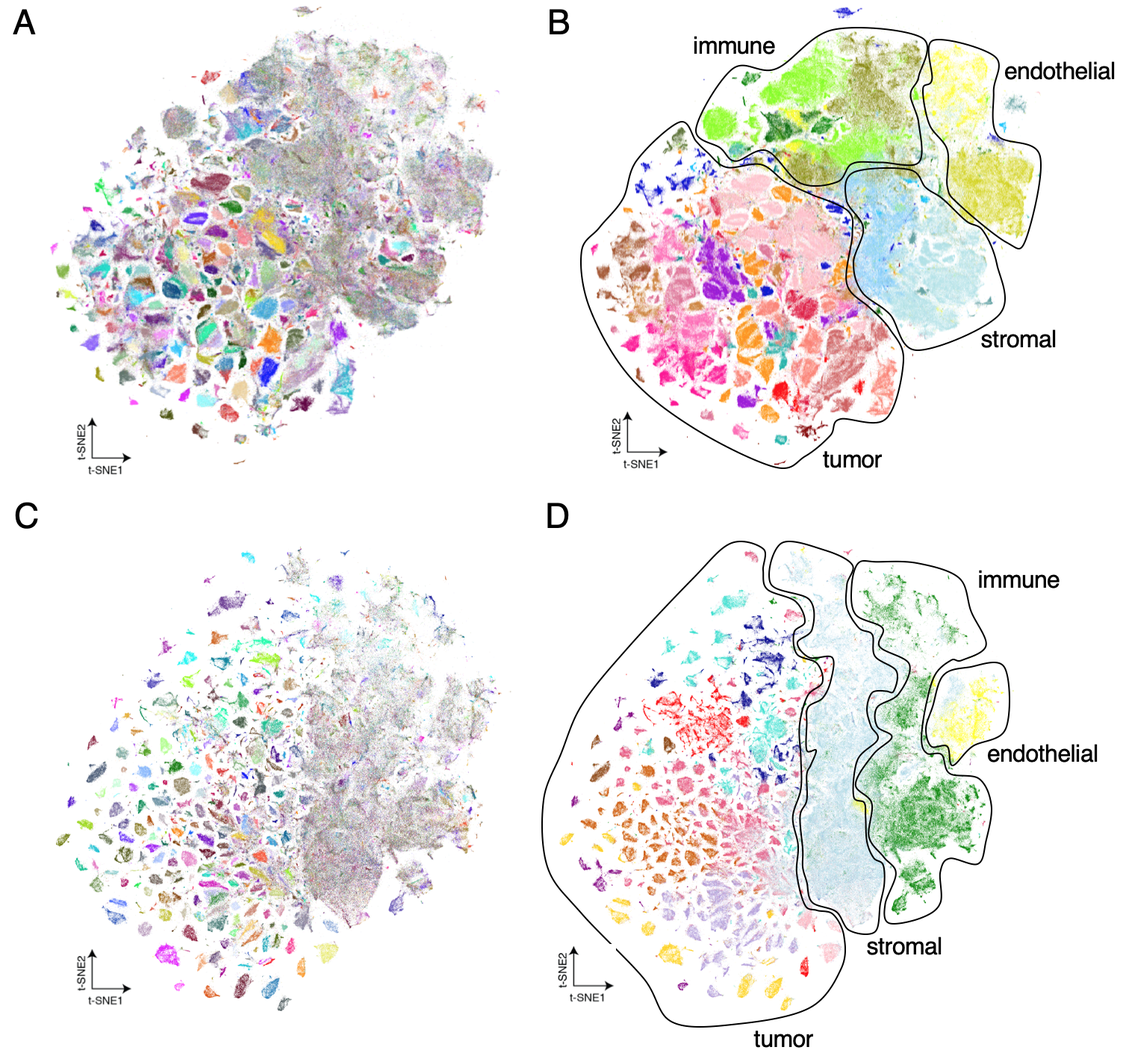
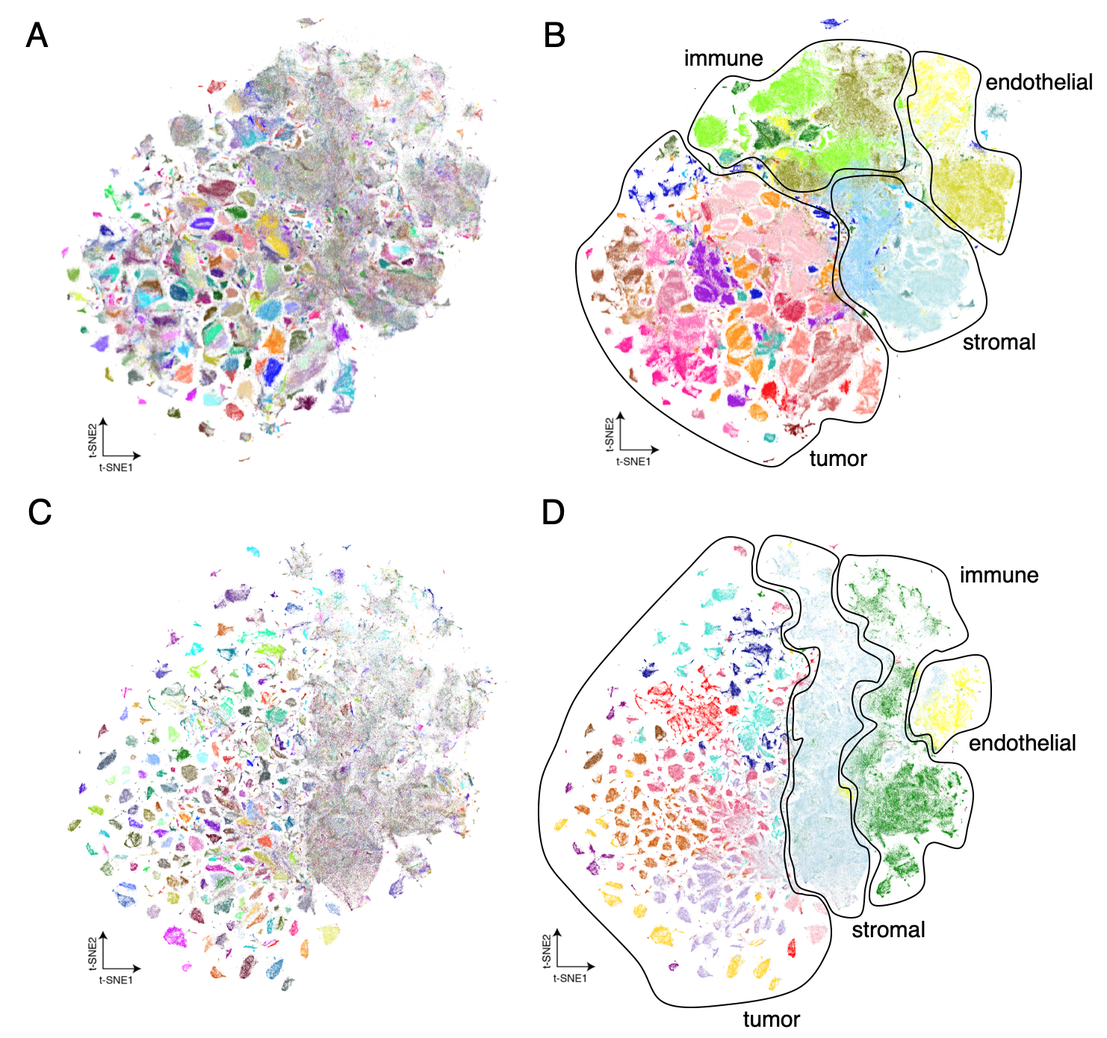
second revision

diff --git a/elsarticle-template-1-num.tex b/elsarticle-template-1-num.tex
@@ -150,25 +150,23 @@ GPU data science \sep breast cancer
 %% main text
 \section{MAIN}
 \label{S:1}
-Multiplex tissue imaging (MTI) methods like cyclic  immunofluorescence (CyCIF) \cite{cycif2018, cmif2020}, CODEX \cite{codex2018}, multiplex immunohistochemistry (mIHC) \cite{mIHC2017}, imaging mass cytometry (IMC) \cite{imc2014}, and multiplex ion beam imaging \cite{mibi2014} enable measurements of the expression and spatial distribution of tens of markers in tissues, and have facilitated our understanding of the interactions and relationships among distinct cell types in diverse tissue microenvironments. Nevertheless, for MTI to reach its full potential as a research paradigm, numerous computational challenges must be overcome, including 1) reproducible normalization of single-cell intensity measurements to enable comparison of measurements within and between samples; 2) robust cell phenotyping at megascale to enable comparison--and soon compilation--of MTI datasets from different platforms; and 3) the development of insightful spatial features to characterize the microenvironment of the tissue or disease of interest, and so enable discrimination between tissues that vary over important clinical parameters.\\
+Multiplex tissue imaging (MTI) methods like cyclic  immunofluorescence (CyCIF) \cite{cycif2018, cmif2020}, CODEX \cite{codex2018}, multiplex immunohistochemistry (mIHC) \cite{mIHC2017}, imaging mass cytometry (IMC) \cite{imc2014}, and multiplex ion beam imaging \cite{mibi2014} enable measurements of the expression and spatial distribution of tens of markers in tissues, and have facilitated our understanding of the interactions and relationships among distinct cell types in diverse tissue microenvironments. Nevertheless, for MTI to reach its full potential as a research paradigm, numerous computational challenges must be overcome, including 1) reproducible normalization of single-cell intensity measurements to enable intra- and inter-sample comparisons; 2) robust cell phenotyping at megascale to enable comparison--and soon compilation--of MTI datasets from different platforms; and 3) the development of insightful spatial features to characterize the microenvironment of the tissue or disease of interest, and so enable discrimination between tissues that vary over important clinical parameters.\\
 
-To address these challenges, we present (1) a broadened application of our data-intrinsic normalization method \cite{Chang2020}, which leverages the mutually exclusive expression pattern of marker pairs in MTI stain panels to estimate normalization factors without subjective and time-consuming manual gating; (2) a distributed and graphics processing unit (GPU)-accelerated implementation of PhenoGraph \cite{Levine2015}, the popular, graph-based algorithm for subpopulation detection in high-dimensional single-cell data; and (3) an integrative analysis using this toolkit on $\sim$1.3 million cells from a 180-sample, pan-subtype human breast cancer (BC) tissue microarray (TMA) dataset (\autoref{fig:suppfig1}A-C) stained by CyCIF using a marker panel that characterizes tumor, immune, and stromal compartments (\autoref{fig:fig1}A, \autoref{fig:suppfig1}D). Through consideration of both tissue composition and architecture, we identify features independent from hormone receptor (HR) and human epidermal growth factor receptor 2 (HER2) expression which discriminate between the canonical BC subtypes.\\
+To address these challenges, we present (1) a broadened application of our data-intrinsic normalization method \cite{Chang2020}, which leverages the mutually exclusive expression pattern of marker pairs in MTI stain panels to estimate normalization factors without subjective and time-consuming manual gating; (2) a distributed and graphics processing unit (GPU)-accelerated implementation of PhenoGraph \cite{Levine2015}, the popular graph-based algorithm for subpopulation detection in high-dimensional single-cell data; and (3) an integrative analysis using this toolkit on $\sim$1.3 million cells from a 180-sample, pan-subtype human breast cancer (BC) tissue microarray (TMA) dataset (\autoref{fig:suppfig1}A-C) stained by CyCIF using a marker panel that characterizes tumor, immune, and stromal compartments (\autoref{fig:fig1}A, \autoref{fig:suppfig1}D). Through consideration of both tissue composition and architecture, we identify features independent from hormone receptor (HR) and human epidermal growth factor receptor 2 (HER2) expression which discriminate between the canonical BC subtypes.\\
 
-For RESTORE normalization \cite{Chang2020} of each TMA core, we leverage the fact that tumor, immune, and stromal cells exhibit mutually exclusive expression of cell type-specific markers, and use a graph-based clustering to define positive and negative cells and normalization factors (\autoref{fig:suppfig2}A, \autoref{tab:mepairs}, see METHODS). When the raw expression vectors of all cells across TMAs are embedded by $t$-stochastic neighbor embedding ($t$-SNE) \cite{tsne2008}, cells are segregated based on TMA source (\autoref{fig:suppfig2}B, left), mainly due to batch effect and in part due to subtype bias within TMAs (\autoref{fig:suppfig1}B). Following normalization, shared cell types between TMAs are co-embedded (\autoref{fig:suppfig2}B, right) and immune, tumor, and stromal cells are segregated (\autoref{fig:suppfig2}C), a validation of the normalization process.\\
+For RESTORE normalization \cite{Chang2020} of each TMA core, we leverage the fact that tumor, immune, and stromal cells exhibit mutually exclusive expression of cell type-specific markers, and use a graph-based clustering to define positive and negative cells and normalization factors (\autoref{fig:suppfig2}A, \autoref{tab:mepairs}, see METHODS). When the raw expression vectors of all cells across TMAs are embedded by $t$-stochastic neighbor embedding ($t$-SNE) \cite{tsne2008}, cells are segregated based on TMA source (\autoref{fig:suppfig2}B, left), mainly due to batch effect and in part due to subtype bias within TMAs (\autoref{fig:suppfig2}B). Following normalization, shared cell types between TMAs are co-embedded (\autoref{fig:suppfig2}B, right) and immune, tumor, and stromal cells are segregated (\autoref{fig:suppfig2}C), a validation of the normalization process.\\
 
-To define cell types among the $\sim$1.3 million cells in the normalized feature table, we first attempted to use the central processing unit (CPU)-based version of the widely-used algorithm PhenoGraph \cite{Levine2015}, but found it to be inefficient at this scale. To overcome this computational bottleneck, we re-implemented PhenoGraph to be executable on GPUs. Using the Python libraries RAPIDS \cite{cuml2020} and CuPy \cite{cupy2017} to parallelize and accelerate several of PhenoGraph's computations (see METHODS), we observed multiple orders of magnitude improvement in the algorithm's speed without sacrificing clustering quality (\autoref{fig:fig}A, box (2)). Our PhenoGraph implementation identified diverse tumor, immune, and stromal cell types across tissues and BC subtypes (\autoref{fig:fig1}B-C). To define phenotypes shared across tissues, metaclusters of similar phenotypes were aggregated based on the hierarchical clustering of phenotypes based on their mean marker expression. While tissues from all BC subtypes contained similar populations of immune, stromal, and endothelial cells, differences between BC subtypes were largely driven by variable tumor cells expression of luminal and basal cytokeratins, HER2, and the hormone receptors ER and PgR \cite{jackson_single-cell_2020}. We further assessed the robustness of our detected cell phenotypes by either subsampling tissue cores (\autoref{fig:suppfig3}A-C), or by applying $\pm20\%$ noise to normalization factors for each marker for each core (\autoref{fig:suppfig3}D) and found that phenotypes are detected as they are sampled and are robust to minor variation in normalization factors.\\
+To define cell types among the $\sim$1.3 million cells in the normalized feature table, we first attempted to use the central processing unit (CPU)-based version of the widely-used algorithm PhenoGraph \cite{Levine2015}, but found it to be inefficient at this scale. To overcome this computational bottleneck, we re-implemented PhenoGraph to be executable on GPUs. Using the Python libraries RAPIDS \cite{cuml2020} and CuPy \cite{cupy2017} to parallelize and accelerate several of PhenoGraph's computations (see METHODS), we observed multiple orders of magnitude improvement in the algorithm's speed without sacrificing clustering quality (\autoref{fig:fig1}A, box (2)). Our PhenoGraph implementation identified diverse tumor, immune, and stromal cell types across tissues and BC subtypes (\autoref{fig:fig1}B-C). To define phenotypes shared across tissues, metaclusters of similar phenotypes were aggregated based on the hierarchical clustering of phenotypes based on their mean marker expression. While tissues from all BC subtypes contained similar populations of immune, stromal, and endothelial cells, differences between BC subtypes were largely driven by variable tumor cells expression of luminal and basal cytokeratins, HER2, and the hormone receptors ER and PgR \cite{jackson_single-cell_2020}. We further assessed the robustness of our identified cell phenotypes by either subsampling tissue cores (\autoref{fig:suppfig3}A-C), or by applying $\pm20\%$ noise to normalization factors for each marker for each core (\autoref{fig:suppfig3}D) and found that phenotypes are identified as they are sampled and are robust to minor variation in normalization factors.\\
 
-With the growth of MTI in the cancer research and translational communities, there is an acute need for robust and integrative analyses of MTI data across platforms and cohorts \cite{htan2020}. In a step toward addressing that need, we validated our identified cell types through comparison with a recently published survey of BC by IMC \cite{jackson_single-cell_2020}. While the total number of cells from each BC subtype varied between the Basel (IMC) and OHSU (CyCIF) cohorts (\autoref{fig:suppfig4}A), there was substantial overlap between the marker panels used for each MTI platform (\autoref{fig:suppfig4}B). By aligning the cell phenotypes independently detected by PhenoGraph in each cohort (\autoref{fig:suppfig4}C), we found highly-correlated clusters for stromal, immune, basal, and proliferating cell types, among others (\autoref{fig:suppfig4}D), suggesting that shared cell types could be matched across cohorts and MTI platforms, a necessary step for data integration. We note that differences between cohort cell types may reflect the differences between cohort composition with respect to BC subtype. Consistent between cohorts and platforms, tumor cells differed more between samples than did immune, stromal, and endothelial cells \autoref{fig:suppfig5}. \\
+With the growth of MTI in the cancer research and translational communities, there is an acute need for robust and integrative analyses of MTI data across platforms and cohorts \cite{htan2020}. In a step toward addressing that need, we validated our identified cell types through comparison with a recently published survey of BC by IMC \cite{jackson_single-cell_2020}. While the total number of cells from each BC subtype varied between the Basel (IMC) and OHSU (CyCIF) cohorts (\autoref{fig:suppfig4}A), there was substantial overlap between the marker panels used for each MTI platform (\autoref{fig:suppfig4}B). By aligning the cell phenotypes independently detected by PhenoGraph in each cohort (\autoref{fig:suppfig4}C), we found highly-correlated clusters for stromal, immune, basal, and proliferating cell types, among others (\autoref{fig:suppfig4}D), suggesting that shared cell types could be matched across cohorts and MTI platforms, a necessary step for data integration. We note that differences between cohort cell types may reflect the differences between cohort composition with respect to BC subtype. Consistent between cohorts and platforms, tumor cells differed more between samples than did immune, stromal, and endothelial cells (\autoref{fig:suppfig5}). \\
 
-Although BC is appreciated as a genetically and morphologically heterogeneous disease, its clinical subtyping is based on the expression of relatively few markers—in particular, tumor cell expression of the hormone receptors for estrogen and progesterone (ER and PgR, respectively, or HR, collectively), and human epidermal growth factor 2 (HER2)—which is insufficient to explain differences in treatment response within each subtype \cite{bcreview2015}. Recent studies using MTI to interrogate intact BC tissues have found that the spatial contexture of the BC microenvironment can augment our ability to predict clinical outcome \cite{keren2018, jackson_single-cell_2020}. However, because these studies have either ignored features which differentiate between receptor expression-based BC subtypes beyond the expression of the receptors themselves, or focused on a single BC subtype, here we focused on compositional and spatial features which differentiate between BC subtypes. \\
+Although BC is appreciated as a genetically and morphologically heterogeneous disease, its clinical subtyping is based on the expression of relatively few markers—in particular, tumor cell expression of the hormone receptors for estrogen and progesterone (ER and PgR, respectively, or HR, collectively), and human epidermal growth factor 2 (HER2)—which is insufficient to explain differences in treatment response within each subtype \cite{bcreview2015}. Recent studies using MTI to interrogate intact BC tissues have found that the spatial contexture of the BC microenvironment can augment our ability to predict clinical outcome \cite{jackson_single-cell_2020,keren2018}. However, because these studies have either ignored features which differentiate between receptor expression-based BC subtypes beyond the expression of the receptors themselves, or focused on a single BC subtype, here we focused on compositional and spatial features which differentiate between BC subtypes. \\
 
 At the composition level, we first considered the tumor cell differentiation states of BC subtypes through their expression of luminal and basal cytokeratins (CKs). While CK+ cells in HR-/HER2+, HR+/HER2-, and HR+/HER2+ tissues primarily expressed luminal CKs 19, 8, and 7, CK+ cells in TN tissues exhibited significantly greater differentiation state heterogeneity (\autoref{fig:fig2}A), as they expressed many different combinations of luminal and basal cytokeratins (\autoref{fig:fig2}B). This differentiation state heterogeneity is consistent with the genetic and histological heterogeneity of triple negative BC (TNBC) described in other studies \cite{haupt2010, tnbc2016}. We next determined the composition of each tissue core with respect to the cell metaclusters we defined above. Hierarchical clustering of cores based on their cell metacluster densities highlighted the broad variability of cellular composition within and between BC subtypes (\autoref{fig:fig2}C-D). When the cell metaclusters were further aggregated into immune, stromal, and tumor cell types (see METHODS), we found the HR+HER2- tissues to have lower overall immune cell density than the other BC subtypes, and no differences in stromal or tumor cell density between subtypes (\autoref{fig:fig2}E). \\
 
-Recognizing that cell density measurements fail to capture the organization of cells in each tissue, we next characterized the spatial architectures of BC subtypes by building cell neighborhood graphs for each tissue. Given the recent evidence that the quantity and diversity of BC tumor cell interactions with other cell types can inform disease outcome \cite{keren2018,jackson_single-cell_2020}, we first identified the neighboring cells to each tumor cell and compared the composition of tumor cell neighborhoods across BC subtypes (\autoref{fig:fig3}A). Though most tumor cell interactions ($\sim$70-80\%) are with other tumor cells typical to their BC subtype, we observed increased tumor-stromal interaction in the HR+HER2- subtype. When considering tissues that contain an appreciable population of stromal cells (\autoref{fig:fig3}B), we confirmed that there was significantly more stromal mixing with tumor cells in HR+HER2- tissues (\autoref{fig:fig3}C). Importantly, stromal mixing can vary widely between tissues in spite of their similar stromal density (\autoref{fig:fig3}D), highlighting the importance of the spatial context that is preserved in intact tissues. Since malignant epithelial cells can suppress fibroblast maturation and thus promote fibroblast aromatase activity \cite{bulun2012}, ER+HER2- tumors likely favor more from proximal fibroblasts as a source of growth-inducing estrogen than other BC subtypes, and may even act to maintain tumor microenvironments with high stromal mixing \cite{brechbuhl2017}. \\
+Recognizing that cell density measurements fail to capture the organization of cells in each tissue, we next characterized the spatial architectures of BC subtypes by building cell neighborhood graphs for each tissue. Given the recent evidence that the quantity and diversity of BC tumor cell interactions with other cell types can inform disease outcome \cite{jackson_single-cell_2020,keren2018}, we first identified the neighboring cells to each tumor cell and compared the composition of tumor cell neighborhoods across BC subtypes (\autoref{fig:fig3}A). Though most tumor cell interactions ($\sim$70-80\%) are with other tumor cells typical to their BC subtype, we observed increased tumor-stromal interaction in the HR+HER2- subtype. When considering tissues that contain an appreciable population of stromal cells (tissues comprised of at least 25\% stromal cells), we confirmed that there was significantly more stromal mixing with tumor cells in HR+HER2- tissues (\autoref{fig:fig3}B). Importantly, stromal mixing can vary widely between tissues in spite of their similar stromal density (\autoref{fig:fig3}C), highlighting the importance of the spatial context that is preserved in intact tissues. Since malignant epithelial cells can suppress fibroblast maturation and thus promote fibroblast aromatase activity \cite{bulun2012}, ER+HER2- tumors likely favor more from proximal fibroblasts as a source of growth-inducing estrogen than other BC subtypes, and may even act to maintain tumor microenvironments with high stromal mixing \cite{brechbuhl2017}. \\
 
-We reasoned that differences in tumor-stromal interaction might translate into detectable differences between BC subtypes based on their tumor architectures alone. To characterize the tumor architecture of each tissue, we constructed tumor architecture graphs over which we computed the closeness centrality for each tumor cell, which quantifies the relative closeness of that tumor cell to all other tumor cells in the tissue (\autoref{fig:fig3}E). Consistent with the stromal mixing trend observed above, tumor cells in HR+HER2- tissues tended to have increased closeness centrality compared to tumor cells from the other BC subtypes (\autoref{fig:fig3}F), which is in part a reflection of HR+HER2- tumor cell nests tending to be separated by narrower streams of stromal cells than tumor nests in tissues from other BC subtypes (\autoref{fig:fig3}D). In summary, by analyzing BC tissues with spatially resolved MTI, we have identified inter- and intra-cell phenotype interactions which can be leveraged to help discriminate between canonical BC subtypes on a basis other than receptor expression. \\
-
-Finally, we recognize that our understanding of big imaging data benefits from its visualization, so we developed a simple Jupyter wrapper for napari \cite{napari_0_3_0}—the fast, interactive multi-dimensional image viewer for Python—which makes exploration, analysis, and interpretation of multiplex imaging data more tractable. \\
+We reasoned that differences in tumor-stromal interaction might translate into detectable differences between BC subtypes based on their tumor architectures alone. To characterize the tumor architecture of each tissue, we constructed tumor architecture graphs over which we computed the closeness centrality for each tumor cell, which quantifies the relative closeness of that tumor cell to all other tumor cells in the tissue (\autoref{fig:fig3}D). Consistent with the stromal mixing trend observed above, tumor cells in HR+HER2- tissues tended to have increased closeness centrality compared to tumor cells from the other BC subtypes (\autoref{fig:fig3}E), which is in part a reflection of HR+HER2- tumor cell nests tending to be separated by narrower streams of stromal cells than tumor nests in tissues from other BC subtypes (\autoref{fig:fig3}C). In summary, by analyzing BC tissues with spatially resolved MTI, we have identified inter- and intra-cell phenotype interactions which can be leveraged to help discriminate between canonical BC subtypes on a basis other than receptor expression. \\
 
 This work is motivated by an understanding that the spatial context of the tumor microenvironment in intact cancer tissues enables a more granular definition of disease, and—we hope—the design of more personalized and effective treatments. With spatially-resolved MTI, our analysis makes clear that the cellular composition of BC tissue can belie important aspects of its spatial architecture. Ongoing work involves validating these findings in a cohort with more extensive clinical annotation to assess their significance to disease outcome between and within BC subtypes. While BC cell phenotypes and architectural features we have derived will be assets to future BC studies, our generic toolkit can be used stand-alone or integrated with existing toolkits \cite{histocat2017} to improve the efficiency and reproducibility of analytics for any single-cell measurement platform.
 
@@ -182,11 +180,11 @@ Fluorescently stained slides were scanned on the Zeiss AxioScan.Z1 (Zeiss, Germa
 \subsubsection{Quenching fluorescence signal}
 After successful scanning, slides were soaked in 1x PBS for 10–30 minutes in a glass Coplin jar, waiting until glass coverslip slid off without agitation. Quenching solution containing 20 mM sodium hydroxide (NaOH) and 3\% hydrogen peroxide (H2O2) in 1x PBS was freshly prepared from stock solutions of 5 M NaOH and 30\% H2O2, and each slide placed in 10 ml quenching solution. Slides were quenched under incandescent light, for 30 minutes for FFPE tissue slides. Slides were then removed from chamber with forceps and washed 3 x 2 min in 1x PBS. The next round of primary antibodies was applied, diluted in blocking buffer as previously described, and imaging and quenching were repeated over ten rounds for FFPE tissue slides.
 
-
-\subsection{Cell segmentation and mean intensity extraction}
+\subsection{Data pre-processing}
+\subsubsection{Cell segmentation and mean intensity extraction}
 Cell segmentation and mean intensity extraction were performed as previously described \cite{cmif2020}. Mean intensities for each cell were extracted from the biologically-relevant compartment for each marker, i.e. mean intensities for markers with known nuclear (cytoplasmic) localization were extracted from nuclear (cytoplasmic) segmentation masks (\autoref{tab:mepairs}). Cytoplasmic segmentation masks were computed by subtracting nuclear segmentation masks from full cell body segmentation masks.
 
-\subsection{Intensity normalization}
+\subsubsection{Single-cell intensity normalization}
 Normalization factors for single-cell mean intensities were computed as previously described \cite{Chang2020} using the putative mutually-exclusive marker pairs in \autoref{tab:mepairs}. Normalization factors are computed for each pair of reference and mutually-exclusive markers, and the median of these factors is used to normalize each raw single-cell mean intensity vector for each CyCIF marker and each TMA core. Raw intensities were normalized using the equation:
 \begin{equation}
 \label{eq:norm}
@@ -198,13 +196,13 @@ where $\hat{\mathbf{x}}_{i,j}$ and $\mathbf{x}_{i,j}$ are the normalized and raw
 \subsubsection{GPU acceleration of PhenoGraph}
 Given a cell-by-feature dataframe, the PhenoGraph algorithm \cite{Levine2015} consists of two primary steps: 1) defining a $k$-nearest neighbor graph over all cells that is then refined by computing the Jaccard similarity measure over graph edges, and 2) partitioning the graph into discrete cell phenotypes through optimization of partition modularity, such that cells in the same partition are more connected to each other than to cells of another partition. In the official version of PhenoGraph (\url{https://github.com/dpeerlab/PhenoGraph}), these steps are implemented using a combination of Python and C++ libraries that execute on CPU. In \autoref{fig:fig1}A, we show that PhenoGraph execution time increases exponentially with increasing dataset size, taking approximately 3 hours to process a synthetic 1 million cell-by-10 feature dataset. Most MTI datasets measure tens of features, but CPU-based PhenoGraph was unable to fully process the 1 million cell-by-30- and 50-feature synthetic datasets in the 8 hours allotted for the experiment. We see such computational bottlenecks--which would be even further constricted when compiling multiple MTI or cytometry datasets--as a major obstacle to current studies and future meta-studies of high-dimensional MTI datasets, where rapid iteration will be essential to the validation of cross-platform data integration techniques. \\
 
-Owing to recent advances in GPU computing and its ever-broadening adoption in machine learning research, there now exist accelerated GPU-based analogs of many Python scientific computing libraries \cite{cupy2017,cuml2020}, including those with which the CPU-based PhenoGraph is implemented. Some of these libraries even allow computation to be distributed across multiple GPUs \cite{cuml2020,dask}. We employed two of such libraries, CuPy \cite{cupy2017} and RAPIDS \cite{cuml2020}, to accelerate each step of the PhenoGraph algorithm and enable distributed computing over multiple GPUs. With our GPU-based implementation, it is now possible to phenotype cells in megascale cytometry datasets in seconds-to-minutes rather than hours-to-days, and without subsampling. Installation instructions and additional details about our implementation can be found at \url{https://gitlab.com/eburling/grapheno}.\\
+Owing to recent advances in GPU computing and its ever-broadening adoption in machine learning research, there now exist accelerated GPU-based analogs of many Python scientific computing libraries \cite{cuml2020,cupy2017}, including those with which the CPU-based PhenoGraph is implemented. Some of these libraries even allow computation to be distributed across multiple GPUs \cite{cuml2020,dask}. We employed two of such libraries, CuPy \cite{cupy2017} and RAPIDS \cite{cuml2020}, to accelerate each step of the PhenoGraph algorithm and enable distributed computing over multiple GPUs. With our GPU-based implementation, it is now possible to phenotype cells in megascale cytometry datasets in seconds-to-minutes rather than hours-to-days, and without subsampling. Installation instructions and additional details about our implementation can be found at \url{https://gitlab.com/eburling/grapheno}.\\
 
 \subsubsection{Phenotyping and metacluster annotation}
 Apart from the benchmarking experiment described in \autoref{fig:fig1}A, we use only our GPU-based implementation of PhenoGraph throughout this work. Single-cell phenotypes were defined based on single-cell mean intensity for the 35-marker CyCIF panel (\autoref{fig:suppfig1}D). Prior to application of PhenoGraph, data were 99.9th-percentile normalized and arcsin transformed (cofactor = 5). Following \cite{jackson_single-cell_2020}, PhenoGraph was parameterized (k=$40$) to over-cluster the data and detect rare cell types. PhenoGraph clustering was followed by aggregation of phenotypes into metaclusters based on hierarchical clustering of phenotype mean marker intensities and to preserve known biological variation \autoref{fig:fig2}. \\
 
 \subsubsection{Robustness of derived cell phenotypes}
-To assess PhenoGraph clustering robustness to sampling shift, PhenoGraph clusters were derived using random subsets of tissues of varying cardinality, from $10\%$ to $90\%$ of all tissues, and compared the z-scored mean marker intensities of the PhenoGraph-derived clusters from the full reference dataset and each subset using pairwise Pearson's correlation. Even with heavy subsampling, the median of the maximum correlations between matching clusters from reference-to-sample comparisons held at ~0.75 (\autoref{fig:suppfig3}A), indicating that we are defining a robust core set of cell phenotypes. Indeed, the major variation between reference and subsample clusters appeared to be sample-specific tumor cell phenotypes from the tissues held out from each subsample (\autoref{fig:suppfig3}B-C), suggesting that PhenoGraph defines robust cell phenotypes that are shared across tissues and is capable of detecting new phenotypes as they are added to the dataset. To assess the robustness of our derived phenotypes to variability in normalization, we also simulated $\pm20\%$ measurement noise by multiplying the normalized cell intensity vectors for each tissue and marker by a scaling factor drawn uniformly at random from the range [0.8,1.2] and compared the $z$-scored mean marker intensities of the PhenoGraph-derived clusters from the clean reference and noisy datasets using pairwise Pearson's correlation. Even with these significant perturbations to the intensity profiles of cells, the median of the maximum correlations between matching clean and noisy clusters held above 0.8 (\autoref{fig:suppfig3}D), indicating cluster robustness to differentials in preanalytical variables like tissue fixation or autofluorescence which can affect measured IF intensity across a TMA.
+To assess PhenoGraph clustering robustness to sampling shift, PhenoGraph clusters were derived using random subsets of tissues of varying cardinality, from $10\%$ to $90\%$ of all tissues, and compared the $z$-scored mean marker intensities of the PhenoGraph-derived clusters from the full reference dataset and each subset using pairwise Pearson's correlation. Even with heavy subsampling, the median of the maximum correlations between matching clusters from reference-to-sample comparisons held at ~0.75 (\autoref{fig:suppfig3}A), indicating that we are defining a robust core set of cell phenotypes. Indeed, the major variation between reference and subsample clusters appeared to be sample-specific tumor cell phenotypes from the tissues held out from each subsample (\autoref{fig:suppfig3}B-C), suggesting that PhenoGraph defines robust cell phenotypes that are shared across tissues and is capable of detecting new phenotypes as they are added to the dataset. To assess the robustness of our derived phenotypes to variability in normalization, we also simulated $\pm20\%$ measurement noise by multiplying the normalized cell intensity vectors for each tissue and marker by a scaling factor drawn uniformly at random from the range [0.8,1.2] and compared the $z$-scored mean marker intensities of the PhenoGraph-derived clusters from the clean reference and noisy datasets using pairwise Pearson's correlation. Even with these significant perturbations to the intensity profiles of cells, the median of the maximum correlations between matching clean and noisy clusters held above 0.8 (\autoref{fig:suppfig3}D), indicating cluster robustness to differentials in preanalytical variables like tissue fixation or autofluorescence which can affect measured IF intensity across a TMA.
 
 \subsection{t-stochastic neighbor embedding ($t$-SNE)}
 To enable visualization, the full 35-feature single-cell dataset was reduced to 2 dimensions using the RAPIDS implementation of $t$-SNE \cite{tsne2008} with default parameters except perplexity = 60. Prior to $t$-SNE processing, data were 99.9th-percentile normalized and arcsin transformed (cofactor = 5). Plots containing $t$-SNE embeddings of the full $\sim$1.3 million-cell dataset were created using Datashader (\url{https://github.com/holoviz/datashader}).
@@ -212,11 +210,14 @@ To enable visualization, the full 35-feature single-cell dataset was reduced to 
 \subsection{Cross-platform breast cancer cell phenotype validation}
 The imaging mass cytometry (IMC) dataset \cite{jackson_single-cell_2020} used for our cell phenotype validation experiment was retrieved from \url{https://zenodo.org/record/3518284}. To make a fair comparison between the OHSU (CyCIF) and Basel (IMC) datasets, we independently ran PhenoGraph on each using the same parameters ($k$=40, Louvain partitioning) and only the overlapping features between IMC and CyCIF stain panels (\autoref{fig:suppfig4}B). The phenotypes derived from each platform were then cross-correlated to identify inter-platform phenotype matches. Using the clustermap function from seaborn \cite{seaborn2020}, the cross-correlation matrix was then hierarchically clustered with Ward linkage and used to sort the matching clusters between the two cohort heatmaps.
 
+\subsection{Statistical analyses}
+For the groupwise comparisons in \autoref{fig:fig2}A, \autoref{fig:fig2}E, \autoref{fig:fig3}B, we first tested the assumption of homogeneity of variances using the bartlett function from the Python package SciPy \cite{scipy2020}. When the assumption was (not) met, we made groupwise comparisons using one-way ANOVA with Tukey-HSD post-hoc test using the pairwise\_tukey (Welch's ANOVA with Games-Howell post-hoc test using the pairwise\_gameshowell) function from the Python package pingouin \cite{pingouin2018}.
+
 \subsection{Tissue composition analyses}
 \subsubsection{Epithelial differentiation heterogeneity}
 Cells from each core were labeled as positive for each cytokeratin if their mean intensity was greater than the normalization factor computed for that cytokeratin for that core. The plot from \autoref{fig:fig2}B was generated using UpSetPlot (\url{https://github.com/jnothman/UpSetPlot}). The CK heterogeneity of each core was computed by measuring the Shannon entropy of its distribution of CK-expressing cells. The homogeneity of variances assumption was met, so comparison of the CK heterogeneity over BC subtypes was made using the pairwise\_tukey function from pingouin \cite{pingouin2018}.
 
-\subsection{Aggregation of immune, stromal, and tumor cell phenotypes}
+\subsubsection{Aggregation of immune, stromal, and tumor cell phenotypes}
 To enable high-level comparison of cell phenotype distribution over BC subtypes (\autoref{fig:fig2}E and \autoref{fig:fig3}), cell metaclusters were aggregated into immune, stromal, and tumor groups with the following metacluster membership:
 \begin{itemize}
     \item immune = [B cell/T cell, B cell, T cell/macrophage, T cell, macrophage]
@@ -285,7 +286,7 @@ Conceptualization, E.A.B., J.E., G.T., K.C., J.W.G. and Y.H.C.; Methodology, E.A
 
 \begin{figure}[p]
 \centering\includegraphics[width=\linewidth,
-                 keepaspectratio]{fig1_condensed}
+                 keepaspectratio]{fig1_secondrevision}
 \caption{}
 \label{fig:fig1}
 \end{figure}
@@ -300,7 +301,7 @@ Conceptualization, E.A.B., J.E., G.T., K.C., J.W.G. and Y.H.C.; Methodology, E.A
 
 \begin{figure}[p]
 \centering\includegraphics[width=\linewidth,
-                 keepaspectratio]{fig2_condensed}
+                 keepaspectratio]{fig2_secondrevision}
 \caption{}
 \label{fig:fig2}
 \end{figure}
@@ -309,16 +310,16 @@ Conceptualization, E.A.B., J.E., G.T., K.C., J.W.G. and Y.H.C.; Methodology, E.A
 
 \noindent 
 \textbf{Figure 2: Breast cancer subtypes are differentiated by single-cell composition.} \\
-(A) Epithelial differentiation heterogeneity across BC subtypes. Box plot displaying cytokeratin (CK) expression heterogeneity across BC subtypes, where each box represents the distribution of tissue cores from a BC subtype, and each core is summarized based on the entropy of the distribution of CK+ cell types contained within it. Groupwise comparisons were made using ANOVA with pairwise Tukey post-hoc test (*p=0.001).\\
+(A) Epithelial differentiation heterogeneity across BC subtypes. Box plot displaying cytokeratin (CK) expression heterogeneity across BC subtypes, where each box represents the distribution of tissue cores from a BC subtype, and each core is summarized based on the entropy of the distribution of CK+ cell types contained within it. Groupwise comparisons were made using ANOVA with pairwise Tukey post-hoc test. *p<0.001 for all TN comparisons with other the BC subtypes.\\
 (B) UpSet plot summarizing the distribution of CK+ cell types across BC subtypes, considering each CK alone (left margin) or in combination (upper margin).\\
 (C) Cell phenotype density across tissue cores. Bar plot where each bar represent a TMA core, the full bar height represents its total cell density, and each colored segment represents the density of a particular cell metacluster. Bars are hierarchically clustered based on cell metacluster densities. Each bar is labeled with its corresponding subtype, stage, and grade, if a label is available. The inset brackets indicate (1) cores with abundant H3K27me3+ tumor cells, which could indicate a mechanism of HR repression in some TN and HR-/HER2+ tissues \cite{histone2016}; (2) cores with abundant infiltrating B cells (TIL-B), consistent with association found between TIL-B and high-grade, HR- BC \cite{bcell2019}; and (3) cores with relatively low immune density, consistent with the finding that HR+/HER- tissues are immunologically cold compared to TN and HER2+ tissues \cite{pdl1a2015,pdl1b2015}.\\
 (D) A selection of representative tissue cores.\\
-(E) The immune, stromal, and tumor densities of tissue cores from each BC subtype. Groupwise comparisons were made using Welch's ANOVA and Games-Howell post-hoc test.
+(E) The immune, stromal, and tumor densities of tissue cores from each BC subtype. Groupwise comparisons were made using Welch's ANOVA and Games-Howell post-hoc test. *p=0.034, **p=0.035, ***p=0.079.
 
 
 \begin{figure}[p]
 \centering\includegraphics[width=\linewidth,
-                 keepaspectratio]{fig3_condensed}
+                 keepaspectratio]{fig3_secondrevision}
 \caption{}
 \label{fig:fig3}
 \end{figure}
@@ -328,10 +329,11 @@ Conceptualization, E.A.B., J.E., G.T., K.C., J.W.G. and Y.H.C.; Methodology, E.A
 \noindent
 \textbf{Figure 3:} Breast cancer stromal density belies tumor-stromal interaction. \\
 (A) Stacked bar plots displaying the proportion of tumor cell 10-nearest neighbors for each BC subtype. Each colored bar segment represents the proportion of tumor cell neighbors that are comprised of the corresponding cell metacluster. \\
-(B) Bar plot representation of core stromal fraction, where each bar represents a core and the height of each bar represents the proportion of all cells in that core that belong to a stromal metacluster. Cores are ordered based on increasing stromal fraction. The dotted line separates cores that have more or less than 0.25 stromal fraction. \\
-(C) Bar plot representation of core stromal mixing, where only cores with greater than 0.25 stromal fraction are shown. Cores are oredered based on increasing stromal mixing. Inset shows box plot comparing stromal mixing over BC subtype. Groupwise comparisons were made using Welch's ANOVA and Games-Howell post-hoc test. \\
-(D) Scatter plot displaying stromal density versus stromal mixing and images of representative cores with similar stromal density but different stromal mixing.\\
-Tumor architecture differentiates BC subtypes. (A) Overview of tumor architecture characterization. A spatial graph is defined over tumor cells, where each tumor cell is connected to others within a \SI{65}{\micro\meter} radius from its centroid, and the closeness centrality is then measured over this graph. Each core is then summarized as a histogram of centrality values. B) Hierarchical clustering of cores based on their tumor closeness centrality histograms. The upper and lower outset tumor graphs correspond to the right and left tissue core images in \autoref{fig:fig3}D, respectively. Scale bar in tumor graphs is \SI{150}{\micro\meter}.
+(B) Bar plot representation of core stromal mixing, where only cores with greater than 0.25 stromal fraction are shown. Cores are oredered based on increasing stromal mixing. Inset shows box plot comparing stromal mixing over BC subtype. Groupwise comparisons were made using Welch's ANOVA and Games-Howell post-hoc test. *p<0.001 for all HR+HER2- comparisons. \\
+(C) Scatter plot displaying stromal density versus stromal mixing and images of representative cores with similar stromal density but different stromal mixing.\\
+Tumor architecture differentiates BC subtypes. \\
+(D) Overview of tumor architecture characterization. A spatial graph is defined over tumor cells, where each tumor cell is connected to others within a \SI{65}{\micro\meter} radius from its centroid, and the closeness centrality is then measured over this graph. Each core is then summarized as a histogram of centrality values. \\
+(E) Hierarchical clustering of cores based on their tumor closeness centrality histograms. The upper and lower outset tumor graphs correspond to the right and left tissue core images in \autoref{fig:fig3}C, respectively. Scale bar in tumor graphs is \SI{150}{\micro\meter}.
 
 \newpage
 
@@ -353,7 +355,7 @@ Tumor architecture differentiates BC subtypes. (A) Overview of tumor architectur
 
 \begin{suppfigure}[p]
 \centering\includegraphics[width=\linewidth,
-                 keepaspectratio]{suppfig2}
+                 keepaspectratio]{suppfig2_secondrevision}
 \caption{}
 \label{fig:suppfig2}
 \end{suppfigure}
@@ -368,7 +370,7 @@ Tumor architecture differentiates BC subtypes. (A) Overview of tumor architectur
 
 \begin{suppfigure}[p]
 \centering\includegraphics[width=\linewidth,
-                 keepaspectratio]{suppfig3}
+                 keepaspectratio]{suppfig3_secondrevision}
 \caption{}
 \label{fig:suppfig3}
 \end{suppfigure}
@@ -384,7 +386,7 @@ Tumor architecture differentiates BC subtypes. (A) Overview of tumor architectur
 
 \begin{suppfigure}[p]
 \centering\includegraphics[width=\linewidth,
-                 keepaspectratio]{suppfig4}
+                 keepaspectratio]{suppfig4_secondrevision}
 \caption{}
 \label{fig:suppfig4}
 \end{suppfigure}
